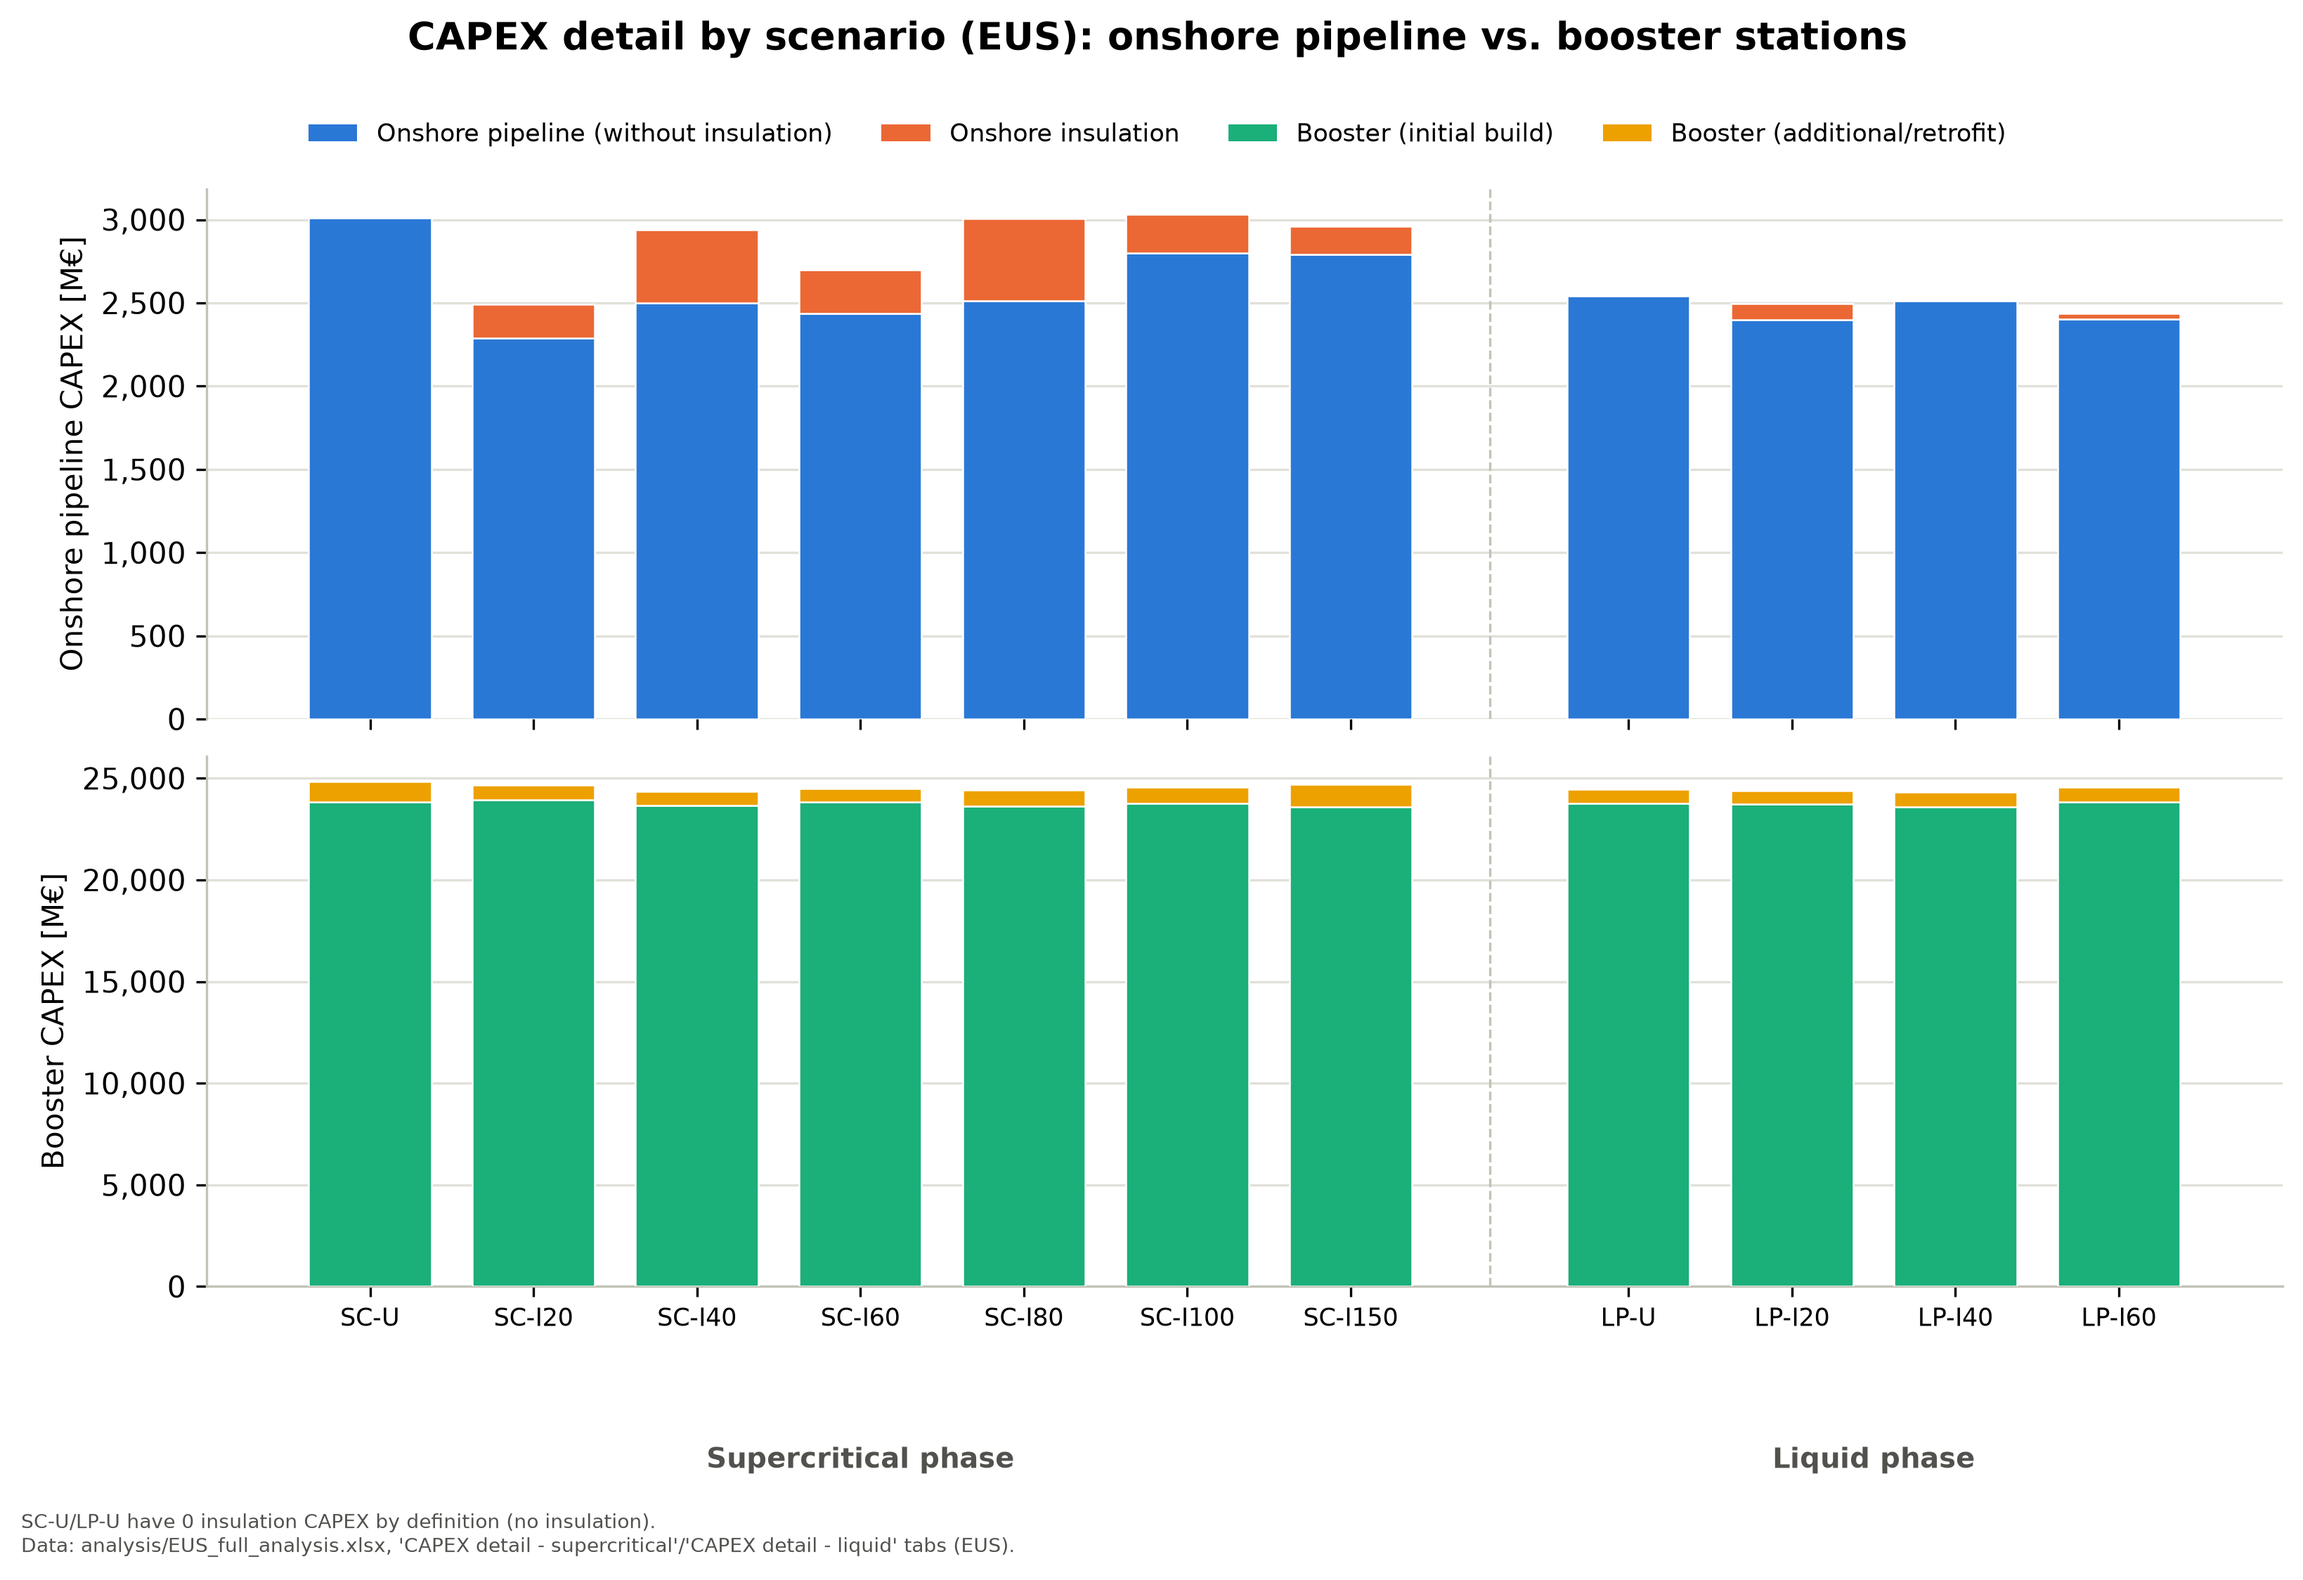
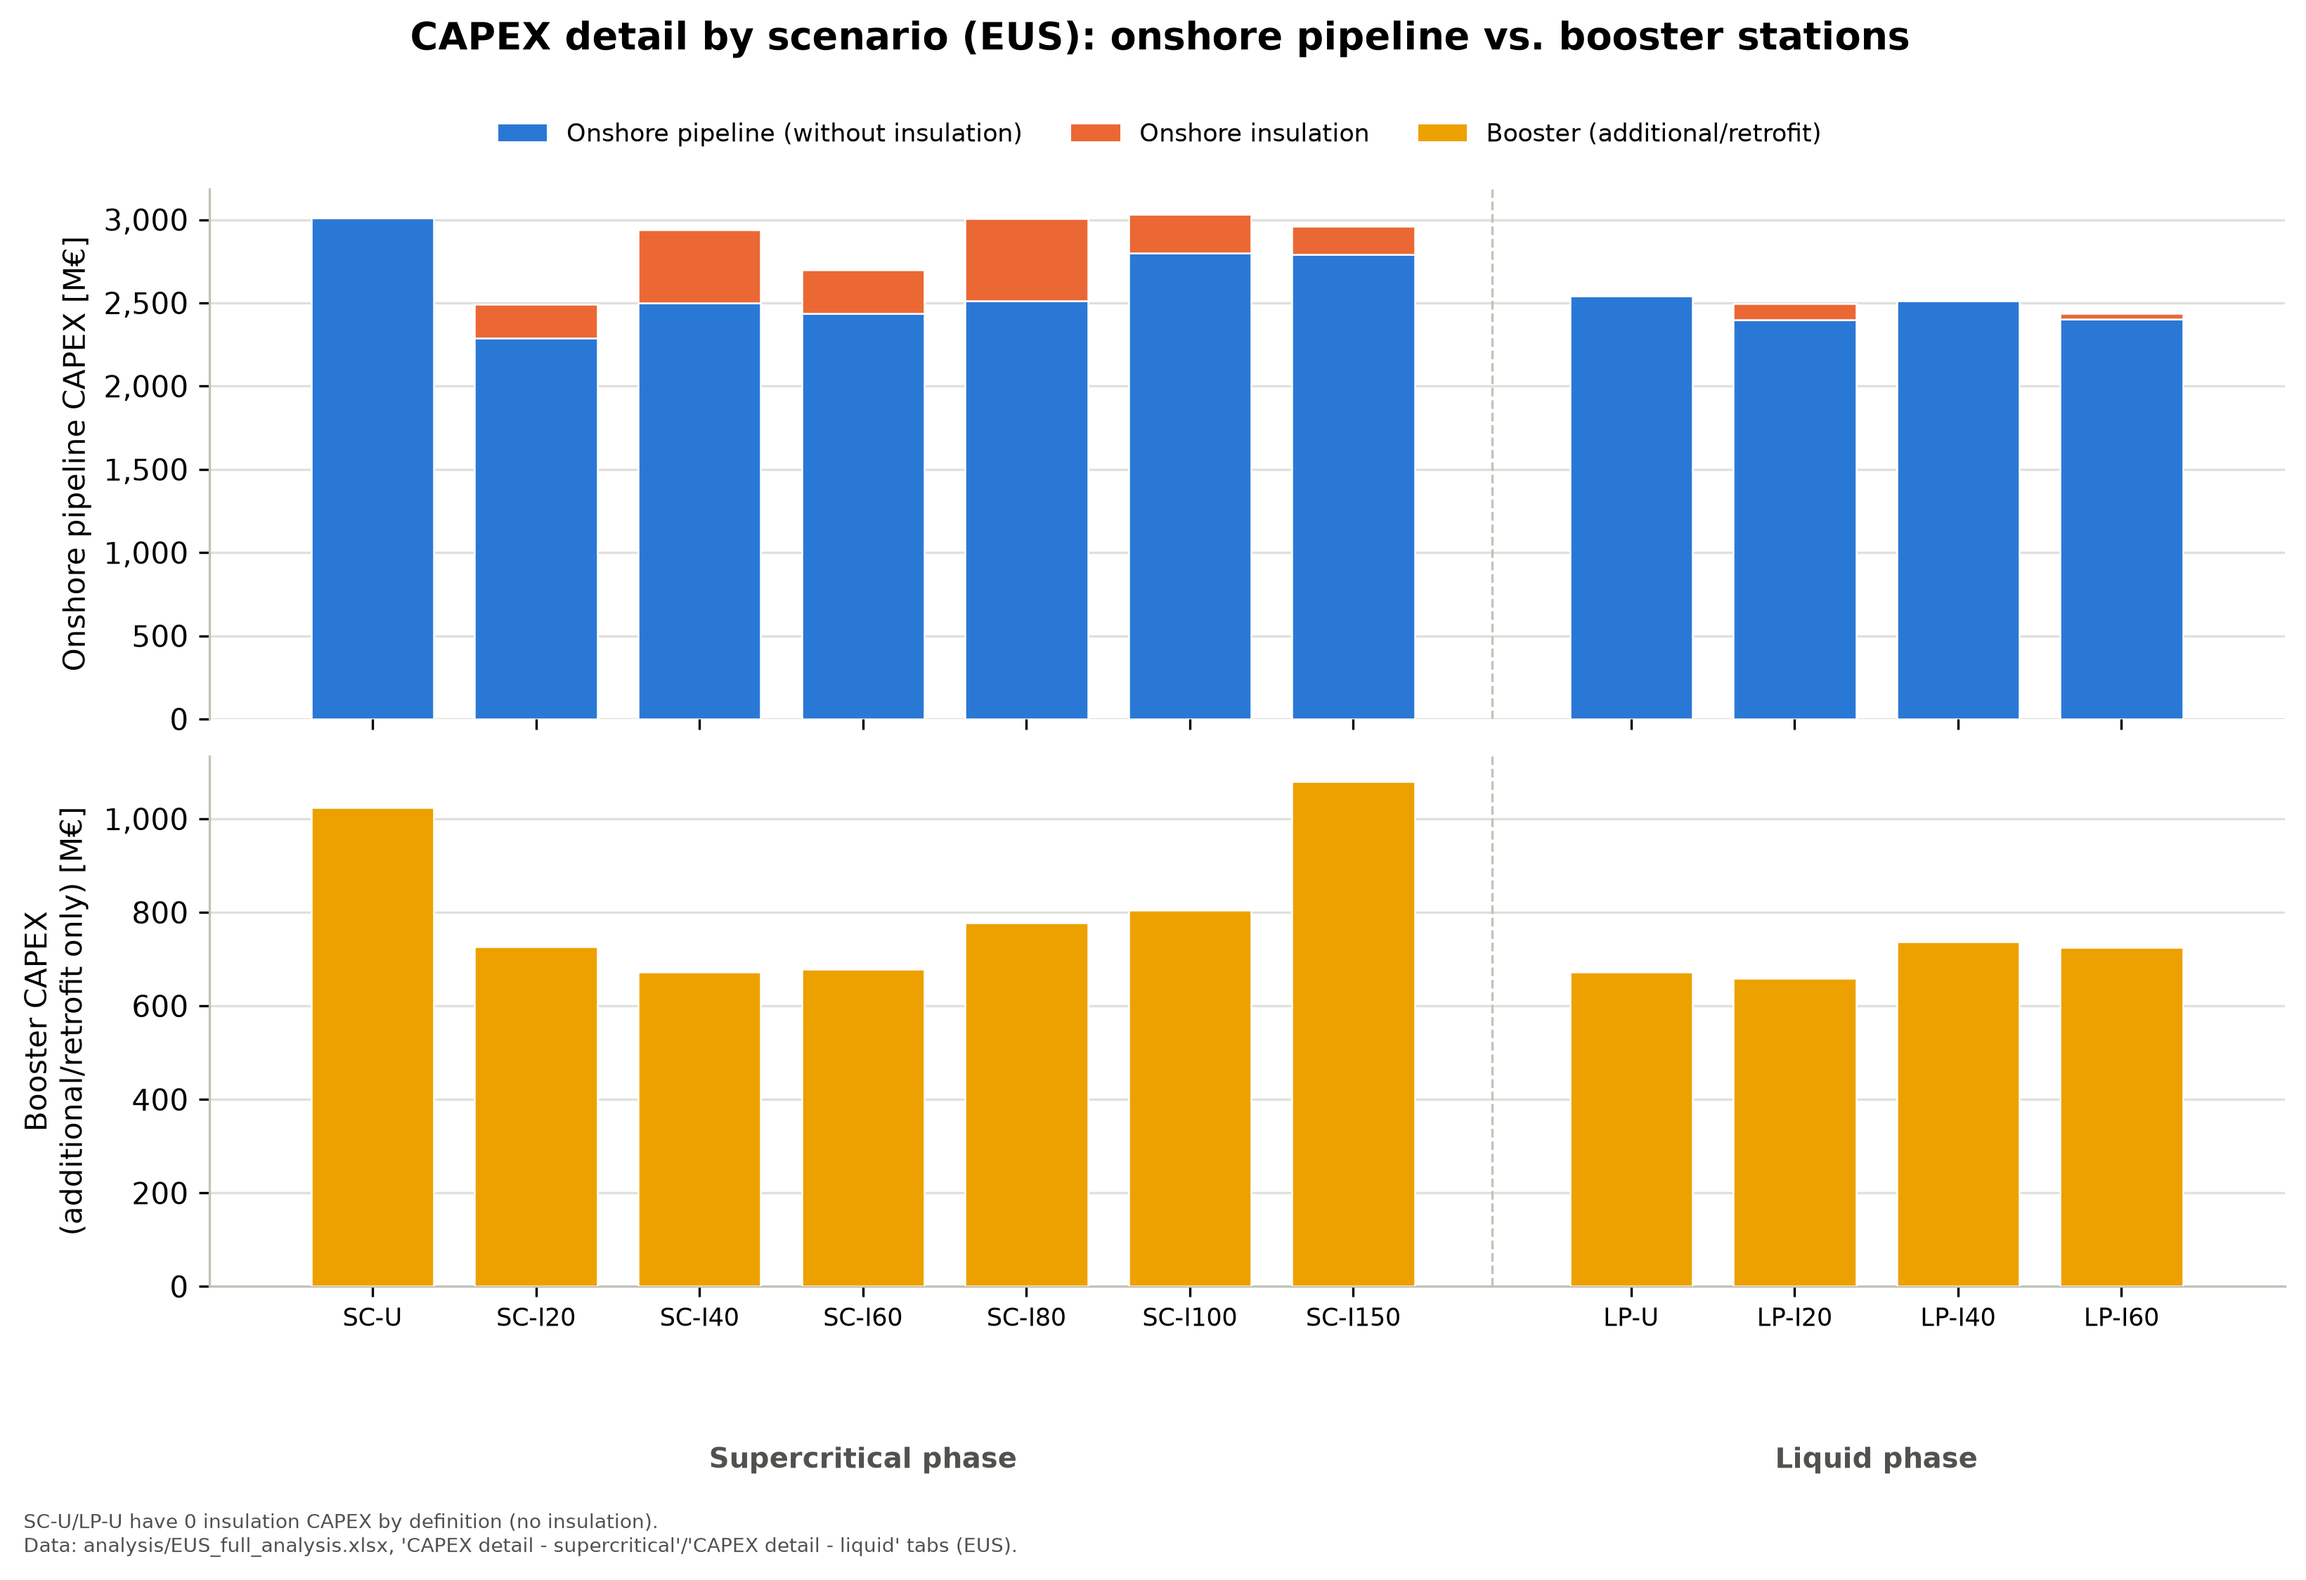
Drop booster-initial from the onshore-vs-booster CAPEX chart
plot_capex_detail_absolute()'s booster panel now shows only the
additional/retrofit CAPEX -- initial-build CAPEX (~23-24k M€, dwarfing
additional's ~650-1080 M€) was flattening the panel to a near-constant
line, hiding the scenario-to-scenario variation that actually matters
here (already visible for booster CAPEX overall in capex_detail_relative.png
and the trend/component charts).

diff --git a/analysis/plot_capex_detail.py b/analysis/plot_capex_detail.py
@@ -154,15 +154,12 @@ def plot_capex_detail_absolute(capex_detail, out_dir: Path = OUT_DIR):
                         bottom=col["CAPEX onshore pipeline without insulation"],
                         color=COLOR_ONSHORE_INS, edgecolor="white", linewidth=0.6, zorder=3)
 
-        ax_booster.bar(x, col["CAPEX booster initial"], bar_width,
-                        color=COLOR_BOOSTER_INITIAL, edgecolor="white", linewidth=0.6, zorder=3)
         ax_booster.bar(x, col["CAPEX booster additional"], bar_width,
-                        bottom=col["CAPEX booster initial"],
                         color=COLOR_BOOSTER_ADDITIONAL, edgecolor="white", linewidth=0.6, zorder=3)
 
     ax_onshore.set_ylabel("Onshore pipeline CAPEX [M€]")
     ax_onshore.yaxis.set_major_formatter(FuncFormatter(lambda v, _: f"{v:,.0f}"))
-    ax_booster.set_ylabel("Booster CAPEX [M€]")
+    ax_booster.set_ylabel("Booster CAPEX\n(additional/retrofit only) [M€]")
     ax_booster.yaxis.set_major_formatter(FuncFormatter(lambda v, _: f"{v:,.0f}"))
 
     for ax in (ax_onshore, ax_booster):
@@ -180,7 +177,6 @@ def plot_capex_detail_absolute(capex_detail, out_dir: Path = OUT_DIR):
     legend_handles = [
         Patch(facecolor=COLOR_ONSHORE_NO_INS, label="Onshore pipeline (without insulation)"),
         Patch(facecolor=COLOR_ONSHORE_INS, label="Onshore insulation"),
-        Patch(facecolor=COLOR_BOOSTER_INITIAL, label="Booster (initial build)"),
         Patch(facecolor=COLOR_BOOSTER_ADDITIONAL, label="Booster (additional/retrofit)"),
     ]
     fig.legend(handles=legend_handles, loc="upper center", bbox_to_anchor=(0.5, 0.925),
